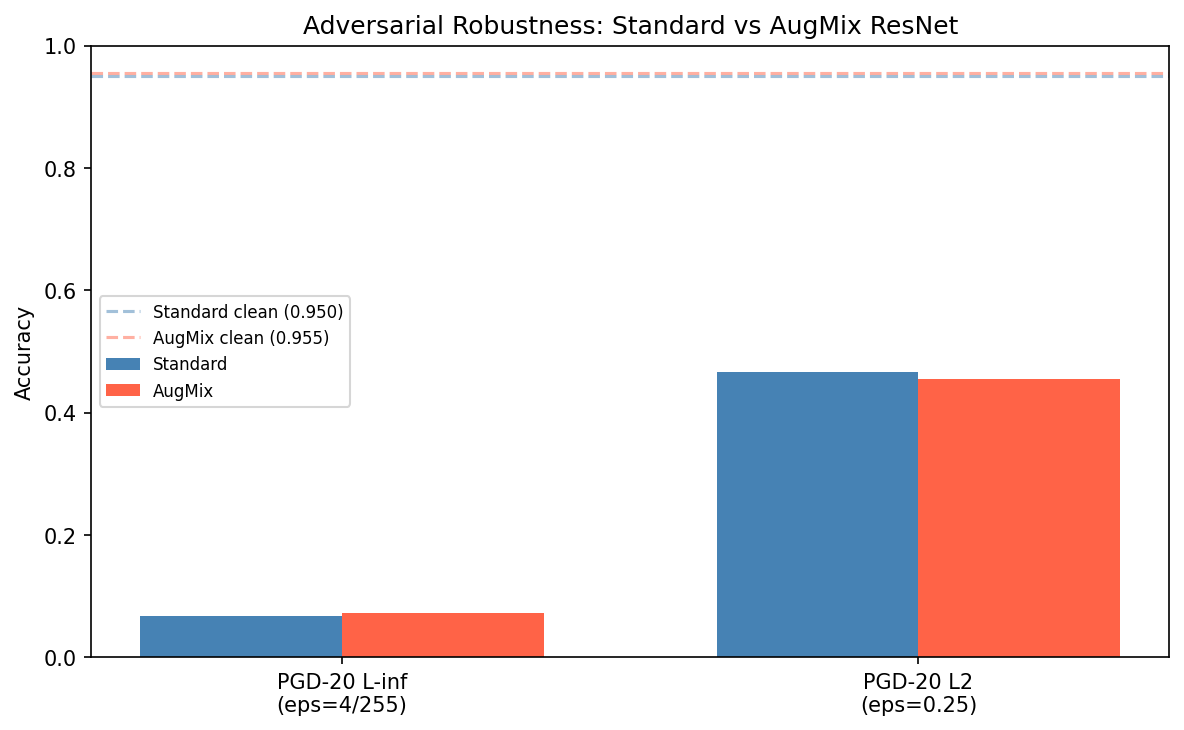
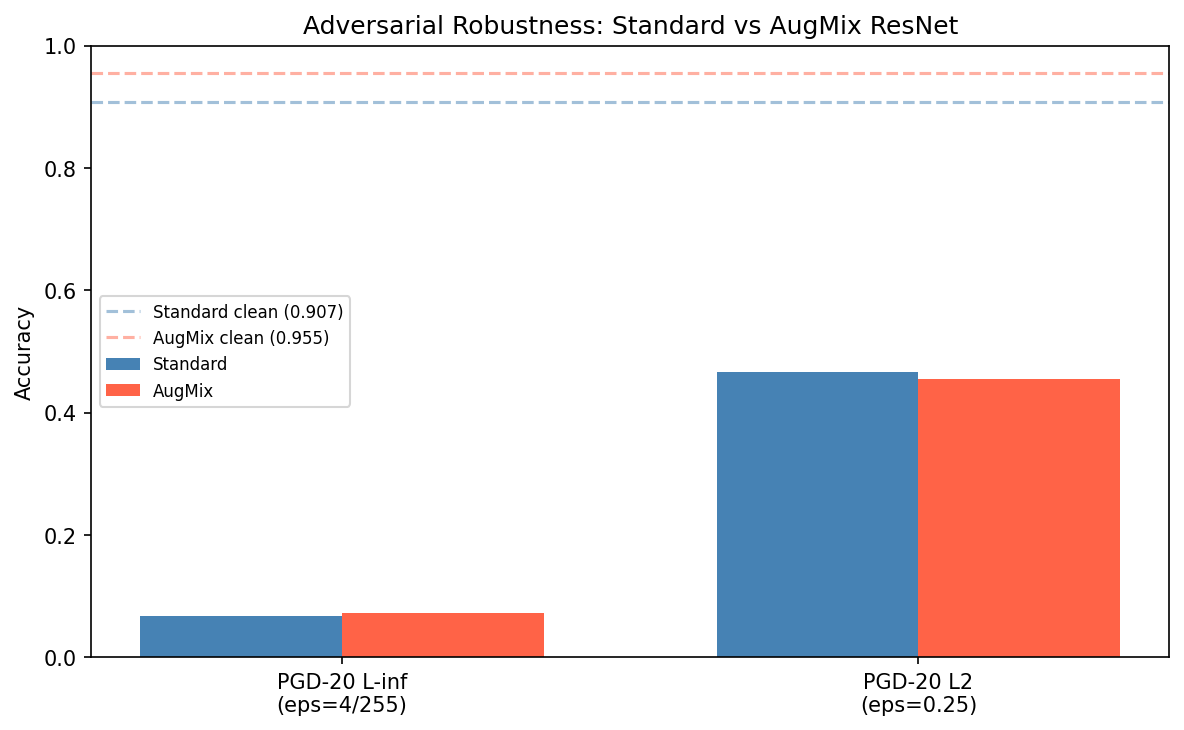
Fix corrupted evaluation results and update visualizations

diff --git a/visualize_hw2.py b/visualize_hw2.py
@@ -1,0 +1,315 @@
+import os
+import csv
+import matplotlib.pyplot as plt
+import numpy as np
+from typing import Dict
+
+
+RESULTS_DIR = "results"
+CORRUPTIONS = ["fog", "brightness", "contrast", "gaussian_noise", "shot_noise"]
+SEVERITIES  = [1, 3, 5]
+
+
+def load_corrupted_results(prefix: str) -> Dict[str, Dict[int, float]]:
+    """
+    Load all corrupted test results for a given model prefix.
+
+    Args:
+        prefix: Run name prefix to match files against.
+
+    Returns:
+        Dict mapping corruption type to dict of severity -> accuracy.
+    """
+    results = {c: {} for c in CORRUPTIONS}
+    for corruption in CORRUPTIONS:
+        for severity in SEVERITIES:
+            fname = f"{prefix}_corrupted_{corruption}_s{severity}.csv"
+            fpath = os.path.join(RESULTS_DIR, fname)
+            if os.path.exists(fpath):
+                with open(fpath) as f:
+                    reader = csv.DictReader(f)
+                    for row in reader:
+                        results[corruption][severity] = float(row["accuracy"])
+    return results
+
+
+def load_adversarial_results(prefix: str) -> Dict[str, float]:
+    """
+    Load adversarial test results for a given model prefix.
+
+    Args:
+        prefix: Run name prefix to match files against.
+
+    Returns:
+        Dict mapping attack type to accuracy.
+    """
+    fpath = os.path.join(RESULTS_DIR, f"{prefix}_adversarial.csv")
+    results = {}
+    if os.path.exists(fpath):
+        with open(fpath) as f:
+            reader = csv.DictReader(f)
+            for row in reader:
+                results[row["attack"]] = float(row["accuracy"])
+    return results
+
+
+def load_transferability_results(prefix: str) -> Dict[str, float]:
+    """
+    Load transferability test results for a given model prefix.
+
+    Args:
+        prefix: Run name prefix to match files against.
+
+    Returns:
+        Dict mapping model role to accuracy.
+    """
+    fpath = os.path.join(RESULTS_DIR, f"{prefix}_transferability.csv")
+    results = {}
+    if os.path.exists(fpath):
+        with open(fpath) as f:
+            reader = csv.DictReader(f)
+            for row in reader:
+                results[row["model"]] = float(row["accuracy"])
+    return results
+
+
+def plot_corrupted_comparison(
+    standard_results: Dict,
+    augmix_results:   Dict,
+    clean_standard:   float,
+    clean_augmix:     float,
+) -> None:
+    """
+    Plot corrupted accuracy comparison between standard and AugMix models.
+
+    Args:
+        standard_results: Corrupted results for standard fine-tuned ResNet.
+        augmix_results: Corrupted results for AugMix ResNet.
+        clean_standard: Clean test accuracy of standard model.
+        clean_augmix: Clean test accuracy of AugMix model.
+    """
+    os.makedirs(f"{RESULTS_DIR}/summary", exist_ok=True)
+
+    # Plot per corruption type across severities
+    fig, axes = plt.subplots(2, 3, figsize=(15, 9))
+    fig.suptitle("Corrupted Test Accuracy: Standard vs AugMix ResNet", fontsize=13)
+    axes = axes.flatten()
+
+    for idx, corruption in enumerate(CORRUPTIONS):
+        ax = axes[idx]
+        std_accs = [standard_results[corruption].get(s, 0) for s in SEVERITIES]
+        aug_accs = [augmix_results[corruption].get(s, 0)   for s in SEVERITIES]
+
+        ax.plot(SEVERITIES, std_accs, "b-o", label="Standard")
+        ax.plot(SEVERITIES, aug_accs, "r-o", label="AugMix")
+        ax.axhline(clean_standard, color="b", linestyle="--", alpha=0.4)
+        ax.axhline(clean_augmix,   color="r", linestyle="--", alpha=0.4)
+        ax.set_title(corruption.replace("_", " ").title())
+        ax.set_xlabel("Severity")
+        ax.set_ylabel("Accuracy")
+        ax.set_xticks(SEVERITIES)
+        ax.set_ylim(0, 1.0)
+        ax.legend(fontsize=8)
+
+    # Hide unused subplot
+    axes[-1].axis("off")
+
+    plt.tight_layout()
+    plt.savefig(f"{RESULTS_DIR}/summary/corrupted_comparison.png",
+                dpi=150, bbox_inches="tight")
+    plt.close()
+    print("Saved: results/summary/corrupted_comparison.png")
+
+    # Plot average accuracy across all corruptions per severity
+    fig, ax = plt.subplots(figsize=(8, 5))
+    for severity in SEVERITIES:
+        std_avg = np.mean([standard_results[c].get(severity, 0) for c in CORRUPTIONS])
+        aug_avg = np.mean([augmix_results[c].get(severity, 0)   for c in CORRUPTIONS])
+
+    std_avgs = [np.mean([standard_results[c].get(s, 0) for c in CORRUPTIONS])
+                for s in SEVERITIES]
+    aug_avgs = [np.mean([augmix_results[c].get(s, 0) for c in CORRUPTIONS])
+                for s in SEVERITIES]
+
+    ax.plot(SEVERITIES, std_avgs, "b-o", label=f"Standard (clean={clean_standard:.3f})")
+    ax.plot(SEVERITIES, aug_avgs, "r-o", label=f"AugMix (clean={clean_augmix:.3f})")
+    ax.axhline(clean_standard, color="b", linestyle="--", alpha=0.4)
+    ax.axhline(clean_augmix,   color="r", linestyle="--", alpha=0.4)
+    ax.set_title("Average Corrupted Accuracy Across All Corruptions")
+    ax.set_xlabel("Severity")
+    ax.set_ylabel("Average Accuracy")
+    ax.set_xticks(SEVERITIES)
+    ax.legend()
+    plt.tight_layout()
+    plt.savefig(f"{RESULTS_DIR}/summary/corrupted_average.png",
+                dpi=150, bbox_inches="tight")
+    plt.close()
+    print("Saved: results/summary/corrupted_average.png")
+
+
+def plot_adversarial_comparison(
+    standard_adv: Dict,
+    augmix_adv:   Dict,
+    clean_standard: float,
+    clean_augmix:   float,
+) -> None:
+    """
+    Plot adversarial robustness comparison between standard and AugMix models.
+
+    Args:
+        standard_adv: Adversarial results for standard ResNet.
+        augmix_adv: Adversarial results for AugMix ResNet.
+        clean_standard: Clean accuracy of standard model.
+        clean_augmix: Clean accuracy of AugMix model.
+    """
+    os.makedirs(f"{RESULTS_DIR}/summary", exist_ok=True)
+
+    attacks = ["pgd_linf", "pgd_l2"]
+    x       = np.arange(len(attacks))
+    width   = 0.35
+
+    fig, ax = plt.subplots(figsize=(8, 5))
+    std_vals = [standard_adv.get(a, 0) for a in attacks]
+    aug_vals = [augmix_adv.get(a, 0)   for a in attacks]
+
+    bars1 = ax.bar(x - width/2, std_vals, width, label="Standard", color="steelblue")
+    bars2 = ax.bar(x + width/2, aug_vals, width, label="AugMix",   color="tomato")
+
+    ax.axhline(clean_standard, color="steelblue", linestyle="--",
+               alpha=0.5, label=f"Standard clean ({clean_standard:.3f})")
+    ax.axhline(clean_augmix,   color="tomato",    linestyle="--",
+               alpha=0.5, label=f"AugMix clean ({clean_augmix:.3f})")
+
+    ax.set_title("Adversarial Robustness: Standard vs AugMix ResNet")
+    ax.set_ylabel("Accuracy")
+    ax.set_xticks(x)
+    ax.set_xticklabels(["PGD-20 L-inf\n(eps=4/255)", "PGD-20 L2\n(eps=0.25)"])
+    ax.set_ylim(0, 1.0)
+    ax.legend(fontsize=8)
+    plt.tight_layout()
+    plt.savefig(f"{RESULTS_DIR}/summary/adversarial_comparison.png",
+                dpi=150, bbox_inches="tight")
+    plt.close()
+    print("Saved: results/summary/adversarial_comparison.png")
+
+
+def plot_transferability(transfer_results: Dict) -> None:
+    """
+    Plot adversarial transferability results.
+
+    Args:
+        transfer_results: Dict mapping model role to accuracy.
+    """
+    os.makedirs(f"{RESULTS_DIR}/summary", exist_ok=True)
+
+    labels = ["Teacher on\nteacher adv", "Student on\nteacher adv"]
+    values = [
+        transfer_results.get("teacher_on_teacher_adv", 0),
+        transfer_results.get("student_on_teacher_adv", 0),
+    ]
+
+    fig, ax = plt.subplots(figsize=(6, 5))
+    bars = ax.bar(labels, values, color=["steelblue", "tomato"])
+    ax.set_title("Adversarial Transferability\n(PGD-20 L-inf generated from AugMix Teacher)")
+    ax.set_ylabel("Accuracy")
+    ax.set_ylim(0, 1.0)
+    for bar, val in zip(bars, values):
+        ax.text(bar.get_x() + bar.get_width()/2, bar.get_height() + 0.01,
+                f"{val:.4f}", ha="center", fontsize=10)
+    plt.tight_layout()
+    plt.savefig(f"{RESULTS_DIR}/summary/transferability.png",
+                dpi=150, bbox_inches="tight")
+    plt.close()
+    print("Saved: results/summary/transferability.png")
+
+
+def save_summary_csv(
+    standard_results: Dict,
+    augmix_results:   Dict,
+    standard_adv:     Dict,
+    augmix_adv:       Dict,
+    transfer_results: Dict,
+    clean_standard:   float,
+    clean_augmix:     float,
+) -> None:
+    """Save a full summary CSV of all HW2 results."""
+    os.makedirs(f"{RESULTS_DIR}/summary", exist_ok=True)
+    fpath = f"{RESULTS_DIR}/summary/hw2_all_results.csv"
+
+    with open(fpath, "w", newline="") as f:
+        writer = csv.writer(f)
+        writer.writerow(["experiment", "model", "condition", "accuracy"])
+
+        # Clean accuracy
+        writer.writerow(["clean", "standard", "clean", f"{clean_standard:.4f}"])
+        writer.writerow(["clean", "augmix",   "clean", f"{clean_augmix:.4f}"])
+
+        # Corrupted
+        for corruption in CORRUPTIONS:
+            for severity in SEVERITIES:
+                std_acc = standard_results[corruption].get(severity, "N/A")
+                aug_acc = augmix_results[corruption].get(severity, "N/A")
+                writer.writerow(["corrupted", "standard",
+                                 f"{corruption}_s{severity}", std_acc])
+                writer.writerow(["corrupted", "augmix",
+                                 f"{corruption}_s{severity}", aug_acc])
+
+        # Adversarial
+        for attack, acc in standard_adv.items():
+            writer.writerow(["adversarial", "standard", attack, f"{acc:.4f}"])
+        for attack, acc in augmix_adv.items():
+            writer.writerow(["adversarial", "augmix", attack, f"{acc:.4f}"])
+
+        # Transferability
+        for role, acc in transfer_results.items():
+            writer.writerow(["transferability", role, "pgd_linf", f"{acc:.4f}"])
+
+    print(f"Saved: {fpath}")
+
+
+def main() -> None:
+    """Generate all HW2 summary plots and tables."""
+
+    # Model prefixes — using scratch-trained models for corrupted evaluation
+    # since finetune models expect 224x224 input but CIFAR-10-C is 32x32
+    standard_prefix = ("resnet_pre=False_mode=finetune_freeze=True_ls=0.0"
+                       "_kd=False_augmix=False_T=4.0_alpha=0.7_st=full")
+    augmix_prefix   = ("resnet_pre=False_mode=finetune_freeze=True_ls=0.0"
+                       "_kd=False_augmix=True_T=4.0_alpha=0.7_st=full")
+    adv_standard_prefix = ("resnet_pre=True_mode=finetune_freeze=False_ls=0.0"
+                           "_kd=False_augmix=False_T=4.0_alpha=0.7_st=full")
+    adv_augmix_prefix   = ("resnet_pre=True_mode=finetune_freeze=False_ls=0.0"
+                           "_kd=False_augmix=True_T=4.0_alpha=0.7_st=full")
+    transfer_prefix = ("cnn_pre=False_mode=finetune_freeze=True_ls=0.0"
+                       "_kd=False_augmix=False_T=4.0_alpha=0.7_st=full")
+
+    # Clean accuracies
+    clean_standard = 0.9070  # scratch ResNet
+    clean_augmix   = 0.9547  # AugMix pretrained ResNet (used for adv evaluation)
+
+    # Load corrupted results from scratch models
+    standard_results = load_corrupted_results(standard_prefix)
+    augmix_results   = load_corrupted_results(augmix_prefix)
+
+    # Load adversarial results from pretrained fine-tuned models
+    standard_adv = load_adversarial_results(adv_standard_prefix)
+    augmix_adv   = load_adversarial_results(adv_augmix_prefix)
+
+    transfer_results = load_transferability_results(transfer_prefix)
+
+    # Generate plots
+    plot_corrupted_comparison(standard_results, augmix_results,
+                              clean_standard, clean_augmix)
+    plot_adversarial_comparison(standard_adv, augmix_adv,
+                                clean_standard, clean_augmix)
+    plot_transferability(transfer_results)
+    save_summary_csv(standard_results, augmix_results,
+                     standard_adv, augmix_adv, transfer_results,
+                     clean_standard, clean_augmix)
+
+    print("\nAll HW2 summary plots saved to results/summary/")
+
+
+
+if __name__ == "__main__":
+    main()
